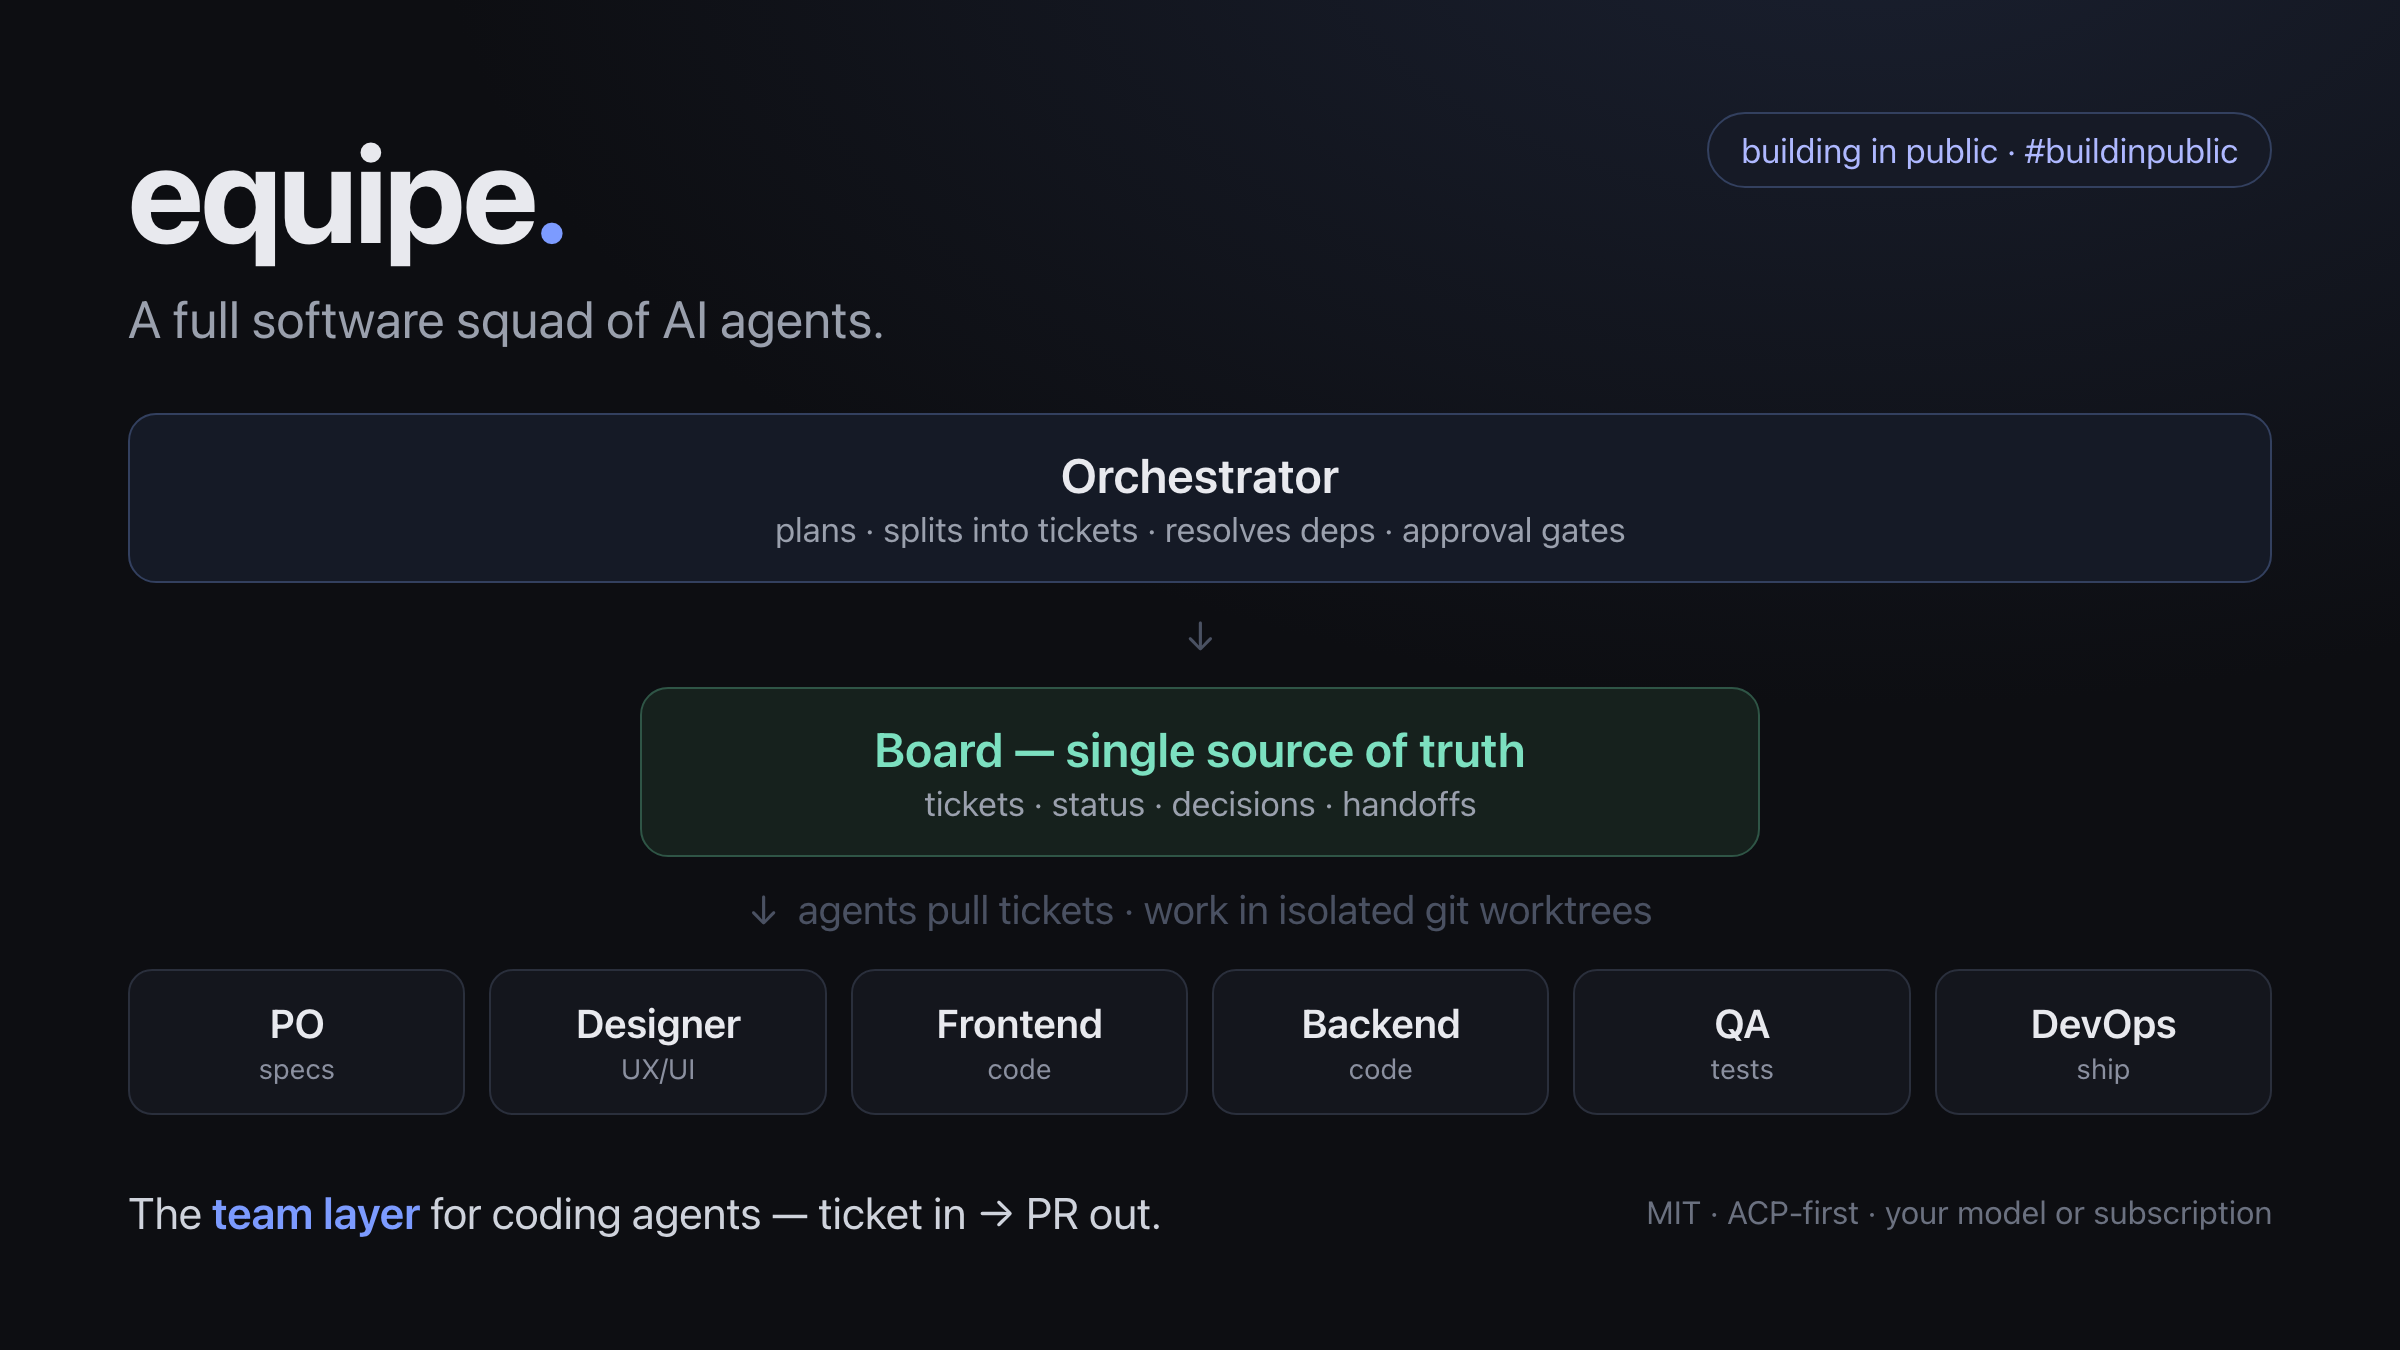
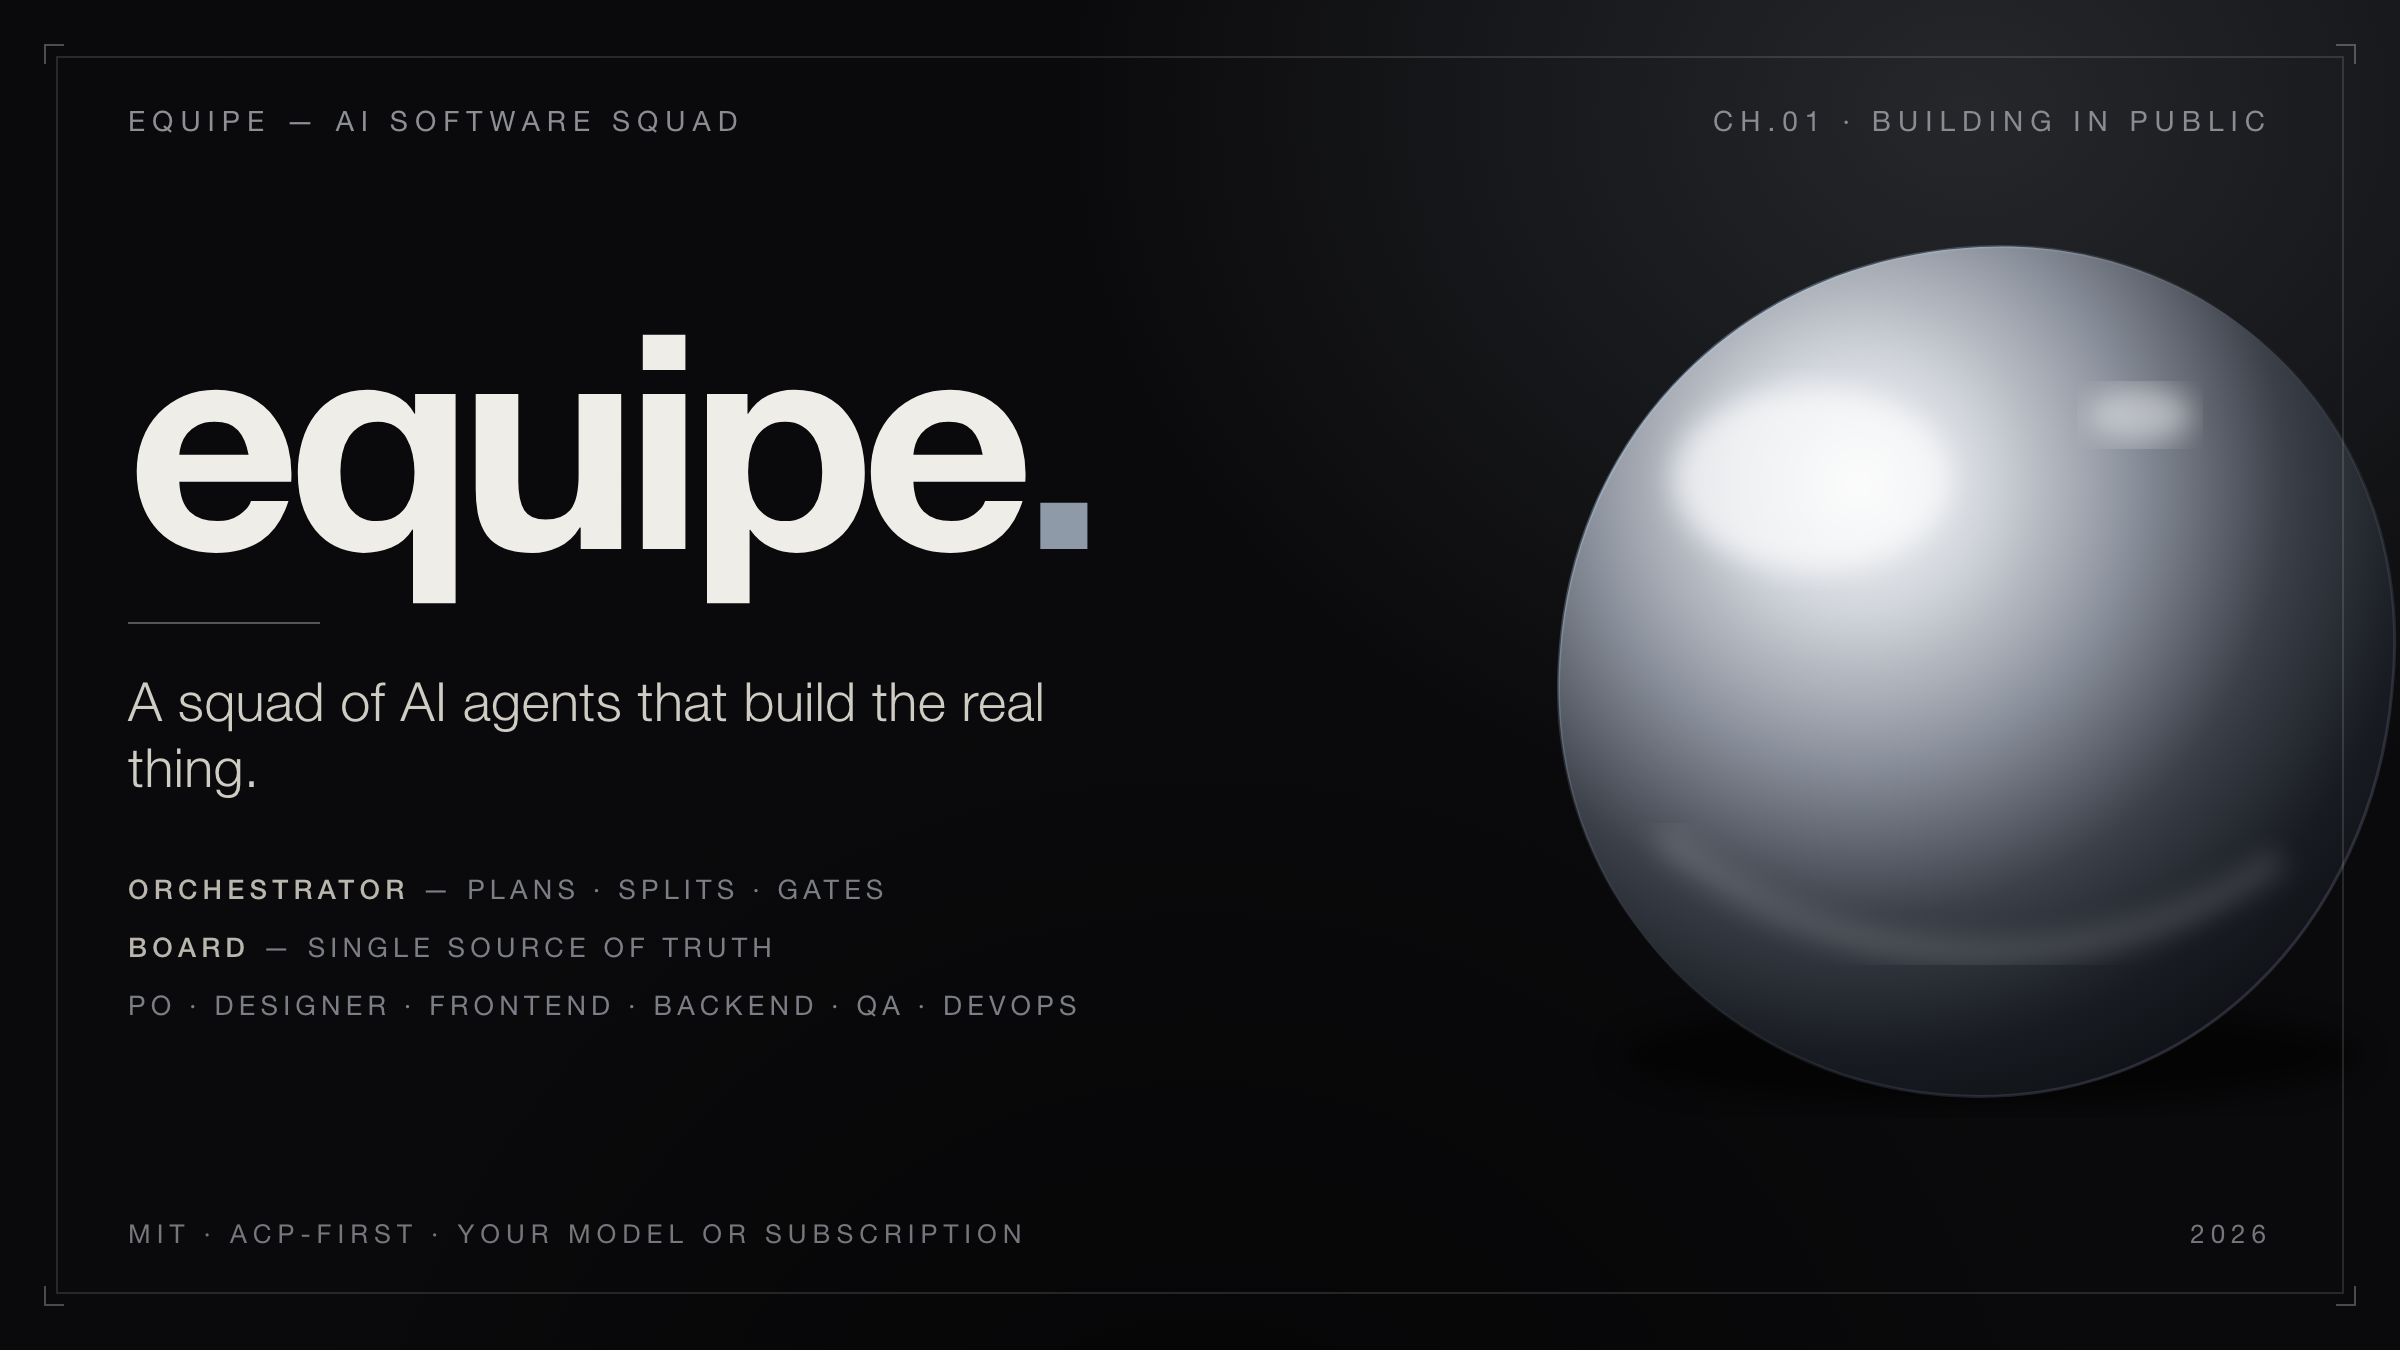
design: editorial "fashion house" brand direction + chrome social card
Redesign the X/social card in a Gentle-Monster-inspired language: void
black, bone + chrome monochrome, a single cropped chrome sculpture,
big lowercase Helvetica wordmark, gallery-placard framing, film grain.
Capture the system in docs/BRAND.md for reuse across cards, gifs, site.

diff --git a/demo/social-card.html b/demo/social-card.html
@@ -3,82 +3,112 @@
 <head>
 <meta charset="utf-8">
 <style>
-  * { margin: 0; padding: 0; box-sizing: border-box; }
-  html, body { width: 1200px; height: 675px; }
+  * { margin:0; padding:0; box-sizing:border-box; }
+  html, body { width:1200px; height:675px; }
   body {
-    background: radial-gradient(1200px 700px at 78% -10%, #1a2030 0%, #0d0e12 60%);
-    color: #e8e9ee;
-    font-family: -apple-system, "SF Pro Display", Inter, system-ui, sans-serif;
-    -webkit-font-smoothing: antialiased;
-    padding: 56px 64px;
-    display: flex; flex-direction: column;
+    background:#0A0A0C;
+    color:#E9E6DF;
+    font-family:"Helvetica Neue", Helvetica, Arial, sans-serif;
+    -webkit-font-smoothing:antialiased;
+    position:relative; overflow:hidden;
   }
-  .top { display: flex; align-items: flex-start; justify-content: space-between; }
-  .brand { font-size: 68px; font-weight: 700; letter-spacing: -1.5px; }
-  .brand .dot { color: #7c9bff; }
-  .tag { margin-top: 8px; font-size: 26px; color: #9aa0ad; font-weight: 400; }
-  .pill {
-    font-size: 17px; color: #aeb8ff; border: 1px solid #33405f;
-    background: #161a26; padding: 8px 16px; border-radius: 999px; white-space: nowrap;
+  /* studio light + vignette */
+  .light { position:absolute; inset:0;
+    background:
+      radial-gradient(760px 620px at 82% 8%, rgba(180,190,205,0.16), transparent 60%),
+      radial-gradient(900px 900px at 50% 120%, rgba(0,0,0,0.55), transparent 55%);
   }
-  .diagram { flex: 1; display: flex; flex-direction: column; justify-content: center; gap: 16px; margin-top: 22px; }
-  .node {
-    border-radius: 14px; border: 1px solid #2a2f3c; background: #14161d;
-    padding: 16px 22px; text-align: center;
-  }
-  .node .t { font-size: 24px; font-weight: 600; }
-  .node .s { font-size: 17px; color: #9aa0ad; margin-top: 3px; }
-  .orch { background: #151a26; border-color: #33405f; }
-  .board {
-    background: #16211d; border-color: #2f5546; align-self: center; min-width: 560px;
-  }
-  .board .t { color: #7ce0c0; }
-  .arrow { align-self: center; color: #4a5162; font-size: 20px; line-height: 1; }
-  .roles { display: flex; gap: 12px; margin-top: 4px; }
-  .chip {
-    flex: 1; text-align: center; border-radius: 12px; border: 1px solid #2a2f3c;
-    background: #14161d; padding: 14px 8px; font-size: 20px; font-weight: 600;
-  }
-  .chip .s { display: block; font-size: 14px; color: #8b90a0; font-weight: 400; margin-top: 3px; }
-  .foot { display: flex; align-items: center; justify-content: space-between; margin-top: 26px; }
-  .hook { font-size: 22px; color: #cfd3dc; }
-  .hook b { color: #7c9bff; font-weight: 600; }
-  .meta { font-size: 16px; color: #6b7180; }
+  .frame { position:absolute; inset:28px; border:1px solid rgba(233,230,223,0.14); }
+  .tick { position:absolute; width:10px; height:10px; border:1px solid rgba(233,230,223,0.30); }
+  .tick.tl{ left:22px; top:22px; border-right:0; border-bottom:0;}
+  .tick.tr{ right:22px; top:22px; border-left:0; border-bottom:0;}
+  .tick.bl{ left:22px; bottom:22px; border-right:0; border-top:0;}
+  .tick.br{ right:22px; bottom:22px; border-left:0; border-top:0;}
+
+  .kick { position:absolute; top:52px; left:64px; right:64px;
+    display:flex; justify-content:space-between;
+    font-size:14px; letter-spacing:3.5px; color:#8A8C92; text-transform:uppercase; }
+
+  .stage { position:absolute; left:64px; top:150px; }
+  .word { font-size:150px; font-weight:700; letter-spacing:-6px; line-height:0.9; color:#EFEDE7; }
+  .word .p { color:#8f9aa8; }
+  .rule { width:96px; height:1px; background:rgba(233,230,223,0.35); margin:26px 0 22px; }
+  .tag { font-size:27px; font-weight:300; letter-spacing:0.2px; color:#CFCcC4; max-width:520px; }
+
+  .credits { margin-top:30px; font-size:13.5px; letter-spacing:2.6px; color:#7C7E85;
+    text-transform:uppercase; line-height:2.15; }
+  .credits b { color:#B9B6AE; font-weight:500; }
+
+  /* chrome object, cropped off the right edge */
+  .obj { position:absolute; right:-70px; top:50%; transform:translateY(-50%); width:560px; height:560px; }
+  .foot { position:absolute; left:64px; right:64px; bottom:50px;
+    display:flex; justify-content:space-between;
+    font-size:13px; letter-spacing:3px; color:#75777D; text-transform:uppercase; }
+
+  .grain { position:absolute; inset:0; opacity:0.11; mix-blend-mode:overlay; pointer-events:none; }
 </style>
 </head>
 <body>
-  <div class="top">
-    <div>
-      <div class="brand">equipe<span class="dot">.</span></div>
-      <div class="tag">A full software squad of AI agents.</div>
-    </div>
-    <div class="pill">building in public · #buildinpublic</div>
+  <div class="light"></div>
+
+  <!-- chrome sculpture -->
+  <svg class="obj" viewBox="0 0 560 560">
+    <defs>
+      <radialGradient id="chrome" cx="36%" cy="28%" r="82%">
+        <stop offset="0%"  stop-color="#F6F7F8"/>
+        <stop offset="18%" stop-color="#D2D6DC"/>
+        <stop offset="40%" stop-color="#8A909B"/>
+        <stop offset="62%" stop-color="#3B4049"/>
+        <stop offset="82%" stop-color="#181B21"/>
+        <stop offset="100%" stop-color="#0B0D11"/>
+      </radialGradient>
+      <linearGradient id="rim" x1="0" y1="0" x2="1" y2="1">
+        <stop offset="0%" stop-color="rgba(180,205,230,0.55)"/>
+        <stop offset="45%" stop-color="rgba(180,205,230,0)"/>
+        <stop offset="100%" stop-color="rgba(120,110,150,0.35)"/>
+      </linearGradient>
+      <filter id="soft"><feGaussianBlur stdDeviation="7"/></filter>
+    </defs>
+    <ellipse cx="285" cy="470" rx="185" ry="26" fill="#000" opacity="0.55" filter="url(#soft)"/>
+    <path d="M280 66 C 402 60, 500 158, 486 288 C 476 402, 388 500, 262 490
+             C 150 481, 60 388, 70 268 C 78 158, 162 72, 280 66 Z"
+          fill="url(#chrome)" stroke="url(#rim)" stroke-width="1.5"/>
+    <!-- specular highlights -->
+    <ellipse cx="196" cy="182" rx="70" ry="46" fill="#ffffff" opacity="0.65" filter="url(#soft)"/>
+    <ellipse cx="360" cy="150" rx="26" ry="14" fill="#ffffff" opacity="0.45" filter="url(#soft)"/>
+    <path d="M120 360 C 200 430, 330 442, 430 372" stroke="#ffffff" stroke-width="10"
+          fill="none" opacity="0.18" filter="url(#soft)"/>
+  </svg>
+
+  <div class="frame"></div>
+  <span class="tick tl"></span><span class="tick tr"></span>
+  <span class="tick bl"></span><span class="tick br"></span>
+
+  <div class="kick">
+    <span>equipe — AI software squad</span>
+    <span>Ch.01 · Building in public</span>
   </div>
 
-  <div class="diagram">
-    <div class="node orch">
-      <div class="t">Orchestrator</div>
-      <div class="s">plans · splits into tickets · resolves deps · approval gates</div>
-    </div>
-    <div class="arrow">↓</div>
-    <div class="node board">
-      <div class="t">Board — single source of truth</div>
-      <div class="s">tickets · status · decisions · handoffs</div>
-    </div>
-    <div class="arrow">↓&nbsp;&nbsp;agents pull tickets · work in isolated git worktrees</div>
-    <div class="roles">
-      <div class="chip">PO<span class="s">specs</span></div>
-      <div class="chip">Designer<span class="s">UX/UI</span></div>
-      <div class="chip">Frontend<span class="s">code</span></div>
-      <div class="chip">Backend<span class="s">code</span></div>
-      <div class="chip">QA<span class="s">tests</span></div>
-      <div class="chip">DevOps<span class="s">ship</span></div>
+  <div class="stage">
+    <div class="word">equipe<span class="p">.</span></div>
+    <div class="rule"></div>
+    <div class="tag">A squad of AI agents that build the real thing.</div>
+    <div class="credits">
+      <b>Orchestrator</b> — plans · splits · gates<br>
+      <b>Board</b> — single source of truth<br>
+      PO · Designer · Frontend · Backend · QA · DevOps
     </div>
   </div>
 
   <div class="foot">
-    <div class="hook">The <b>team layer</b> for coding agents — ticket in → PR out.</div>
-    <div class="meta">MIT · ACP-first · your model or subscription</div>
+    <span>MIT · ACP-first · your model or subscription</span>
+    <span>2026</span>
   </div>
+
+  <svg class="grain">
+    <filter id="n"><feTurbulence type="fractalNoise" baseFrequency="0.9" numOctaves="2" stitchTiles="stitch"/>
+      <feColorMatrix type="saturate" values="0"/></filter>
+    <rect width="100%" height="100%" filter="url(#n)"/>
+  </svg>
 </body>
 </html>

diff --git a/docs/BRAND.md b/docs/BRAND.md
@@ -1,0 +1,66 @@
+# equipe — visual identity
+
+North star: **a fashion house for software teams.** Editorial, restrained,
+futuristic, a little uncanny — closer to a Gentle Monster campaign than a dev-tool
+README. One hero object, lots of negative space, monochrome + chrome, film grain.
+
+## Mood
+
+Premium · minimal · cinematic · cold-luxury · sculptural. Never cluttered, never
+cute, never rainbow. A stranger should feel "this is a serious, designed thing"
+before they read a word.
+
+## Palette
+
+| Token        | Hex / value              | Use                                   |
+| ------------ | ------------------------ | ------------------------------------- |
+| Void         | `#0A0A0C`                | background                            |
+| Bone         | `#EFEDE7`                | wordmark, primary text                |
+| Warm grey    | `#CFCCC4`                | secondary text / tagline              |
+| Muted        | `#7C7E85`                | tracked-caps kickers, captions        |
+| Hairline     | `rgba(233,230,223,.14)`  | frames, rules                         |
+| Chrome ramp  | `#F6F7F8 → #D2D6DC → #8A909B → #3B4049 → #0B0D11` | metallic objects |
+| Cool rim     | `rgba(180,205,230,.5)`   | the *only* color — a whisper on chrome edges |
+
+Monochrome + chrome is the whole system. If you reach for a second accent color,
+stop — use light, grain, or scale instead.
+
+## Type
+
+System grotesque: **Helvetica Neue** (fallback Arial / system-ui). Two moves only.
+
+- **Wordmark** `equipe.` — lowercase, weight 700, very tight tracking (~-6px at
+  150px). The `.` is a chrome-grey period, the one brand mark.
+- **Editorial caps** — kickers, credits, footers: UPPERCASE, `letter-spacing`
+  2.5–3.5px, 13–15px, muted. Set like film/fashion credits.
+- Tagline / body: weight 300, generous size, warm grey.
+
+## Motif
+
+A single **sculptural chrome object** (sphere → liquid-metal blob → mask), boldly
+cropped off an edge, lit like a studio still. It stands in for "the squad / the
+system" without being a literal diagram. Always paired with:
+
+- a **gallery placard** frame — hairline inset border + small corner ticks,
+- a top **kicker** row and a bottom **placard** row (MIT · ACP-first … / year),
+- **film grain** (SVG `feTurbulence`, ~0.1 opacity, `overlay`) + a soft studio
+  light and vignette.
+
+## Do / Don't
+
+- **Do:** negative space, one hero object, tracked caps, grain, hard crops, silence.
+- **Don't:** multiple accent colors, decorative gradients, emoji, boxy flowchart
+  diagrams, drop-shadow soup, stock-y icons.
+
+## Assets
+
+- `demo/social-card.html` → render with headless Chrome to `demo/social-card.png`
+  (2400×1350, 16:9) for X / GitHub social preview:
+  ```bash
+  "/Applications/Google Chrome.app/Contents/MacOS/Google Chrome" \
+    --headless=new --disable-gpu --hide-scrollbars \
+    --force-device-scale-factor=2 --window-size=1200,675 --virtual-time-budget=1500 \
+    --screenshot="$PWD/demo/social-card.png" "file://$PWD/demo/social-card.html"
+  ```
+- Terminal demo gifs (`demo/*.tape`) inherit the same palette (Dracula-ish dark);
+  keep them dark, quiet, and text-forward.
